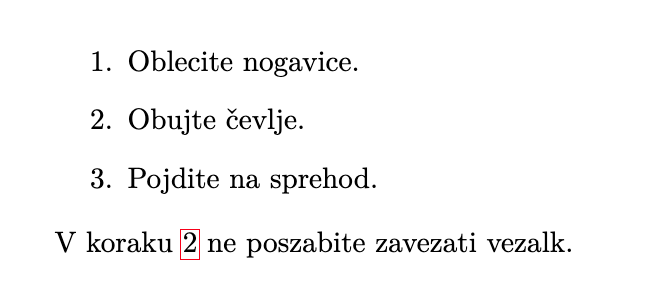
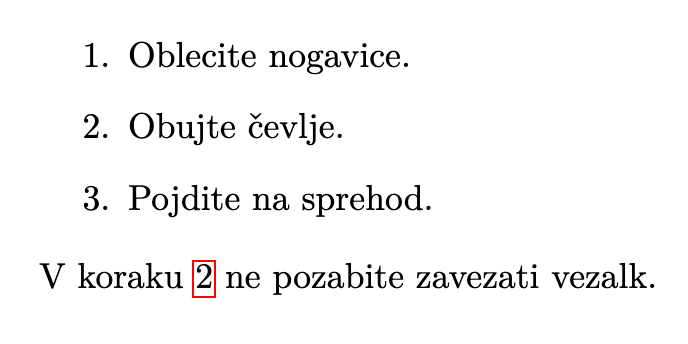
literatura done

diff --git a/03_latexLiteratura.md b/03_latexLiteratura.md
@@ -1,10 +1,3 @@
-<!-- TODO: slike, ki jih je treba ponovno ustvariti
-- img/03_eg-sklici-1.png: "S uporabo" -> "Z uporabo"
-- img/03_eg-sklici-3.png: "poszabite" -> "pozabite"
-- img/03_eg-literatura-4.png: naslov "s Fiziko" -> "s fiziko"; drugi naslov zdaj "povezanih z \LaTeX-om"
-- img/03_eg-literatura-heading-7.png: odstavek mora ustrezati kodi ("Ta besedilo", "uporabljam" sta napačna)
--->
-
 (03_latex_literatura)=
 # Sklicevanje in literatura
 
